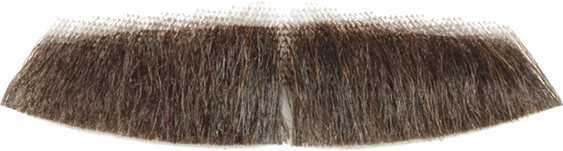
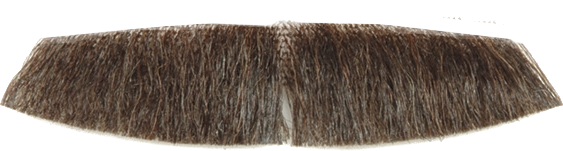
Correcting staches appearence

Changed region(s): [[0.0604, 0.0265, 0.9361, 0.2914], [0.4529, 0.0, 0.4831, 0.0265]]

diff --git a/test_script.py b/test_script.py
@@ -14,7 +14,7 @@ logging.basicConfig(stream=sys.stdout, level=logging.DEBUG)
 placer = MustachePlacer(debug=False)
 finder = FaceFinder(debug=False)
 
-image = Image.open("./img/test.jpg")
+image = Image.open("./img/test2.jpg")
 logging.debug("Image size: %s", image.size)
 
 camera = Camera(image, numpy.zeros((4, 1)))
